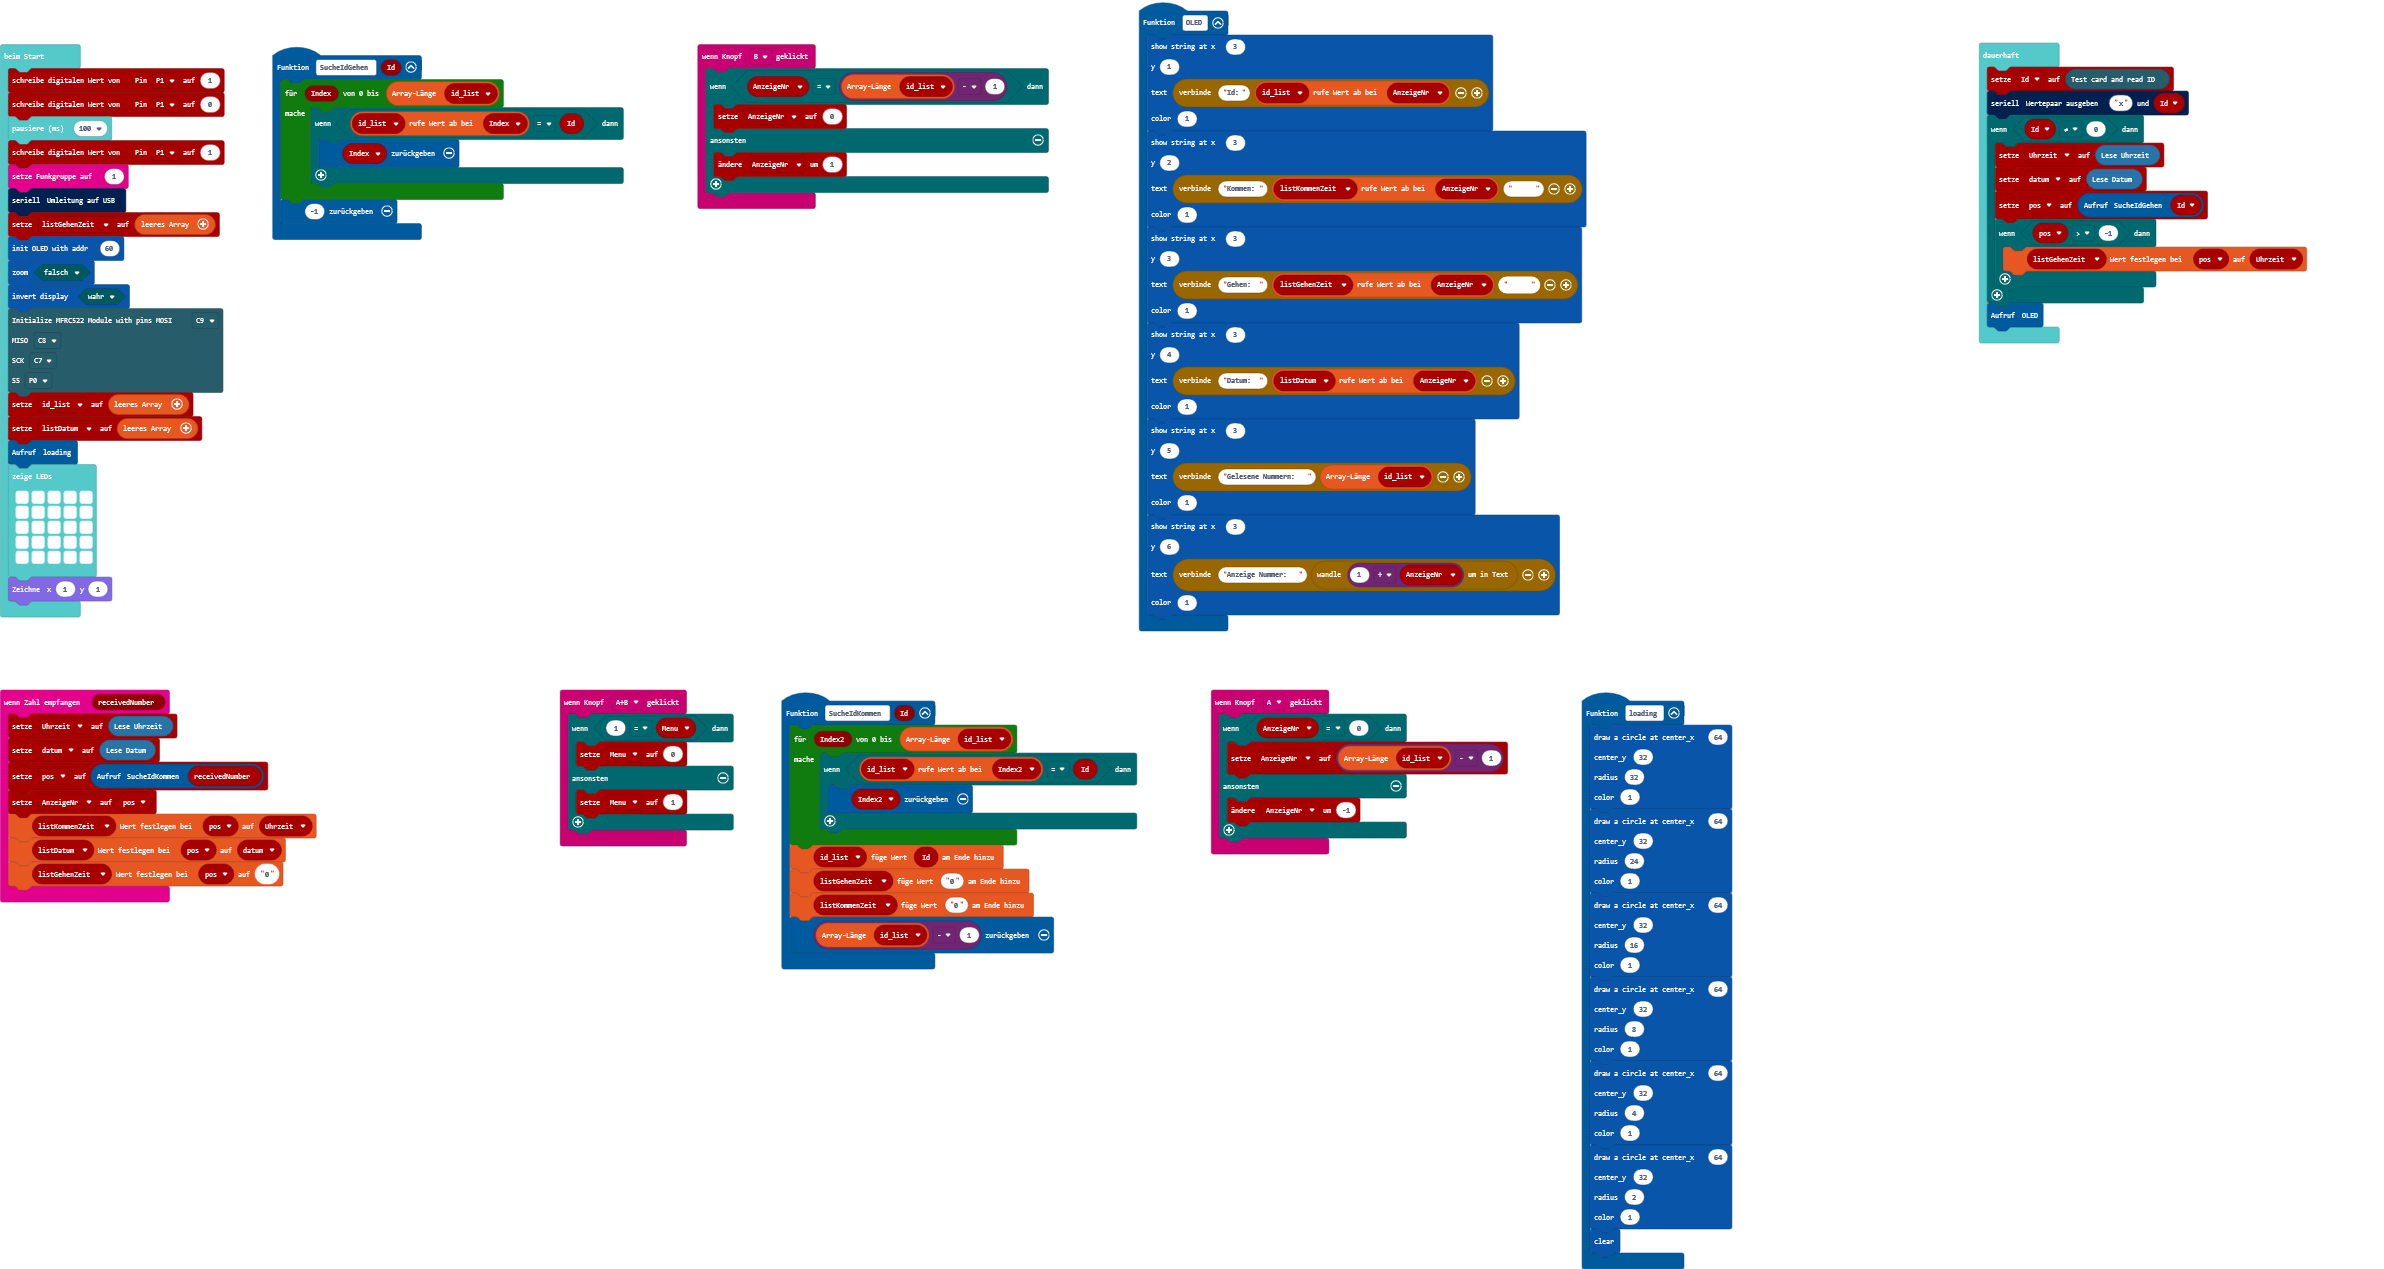
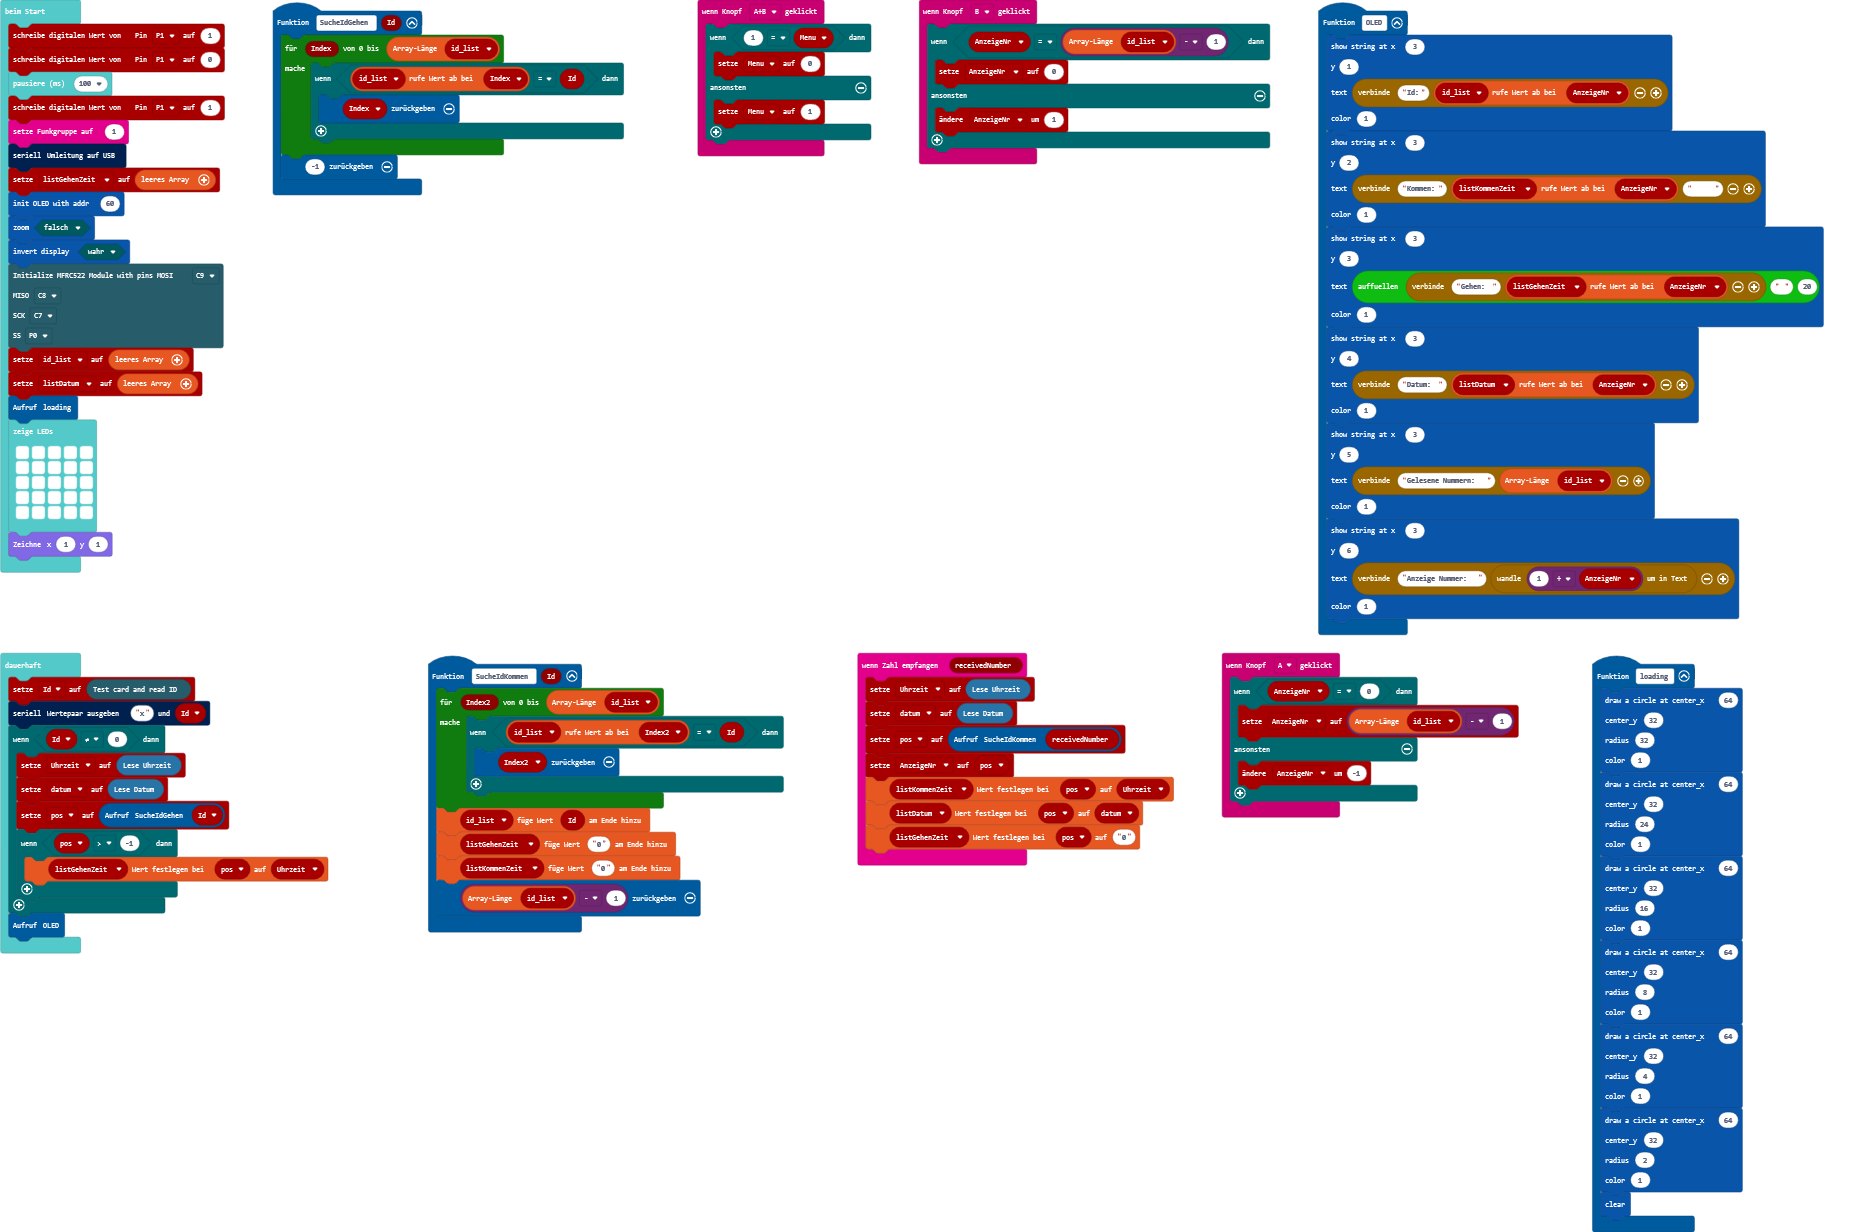
Aktualisiere pxt.json, main.blocks, main.ts, zeichenketten.ts

diff --git a/main.ts b/main.ts
@@ -96,13 +96,13 @@ function OLED () {
     OLED12864_I2C.showString(
     3,
     2,
-    "Kommen:" + listKommenZeit[AnzeigeNr] + "     ",
+    Zeichenkette.auffuellen("Kommen:" + listKommenZeit[AnzeigeNr], "", 20),
     1
     )
     OLED12864_I2C.showString(
     3,
     3,
-    "Gehen: " + listGehenZeit[AnzeigeNr] + "     ",
+    Zeichenkette.auffuellen("Gehen: " + listGehenZeit[AnzeigeNr], " ", 20),
     1
     )
     OLED12864_I2C.showString(
@@ -114,7 +114,7 @@ function OLED () {
     OLED12864_I2C.showString(
     3,
     5,
-    "Gelesene Nummern: " + id_list.length,
+    Zeichenkette.auffuellen("Gelesene Nummern: " + id_list.length, "", 20),
     1
     )
     OLED12864_I2C.showString(

diff --git a/zeichenketten.ts b/zeichenketten.ts
@@ -1,0 +1,25 @@
+/**
+ * Nutze diese Datei für benutzerdefinierte Funktionen und Blöcke.
+ * Weitere Informationen unter https://makecode.calliope.cc/blocks/custom
+ */
+
+/**
+ * Benutzerdefinierte Blöcke
+ */
+//% weight=100 color=#0fbc11 icon=""
+namespace Zeichenkette {
+    /**
+     * TODO: Beschreibe deine Funktion hier
+     */    
+    //% block
+    export function auffuellen(n: string, s: string, e: number): string {
+        // Add code here
+        let laenge=n.length
+        if(laenge<e) {
+            for (let index = 0; index < (e-laenge); index++) {
+	            n=n+s
+            }
+        }
+        return n.substr(0,e)
+    }
+}
